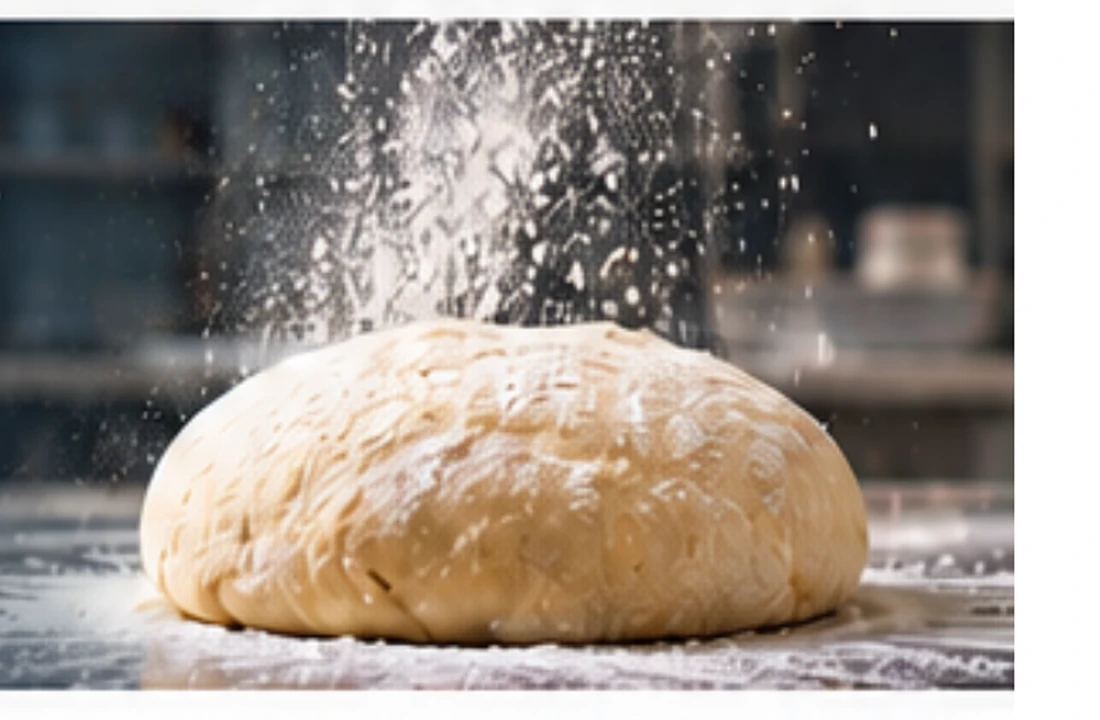
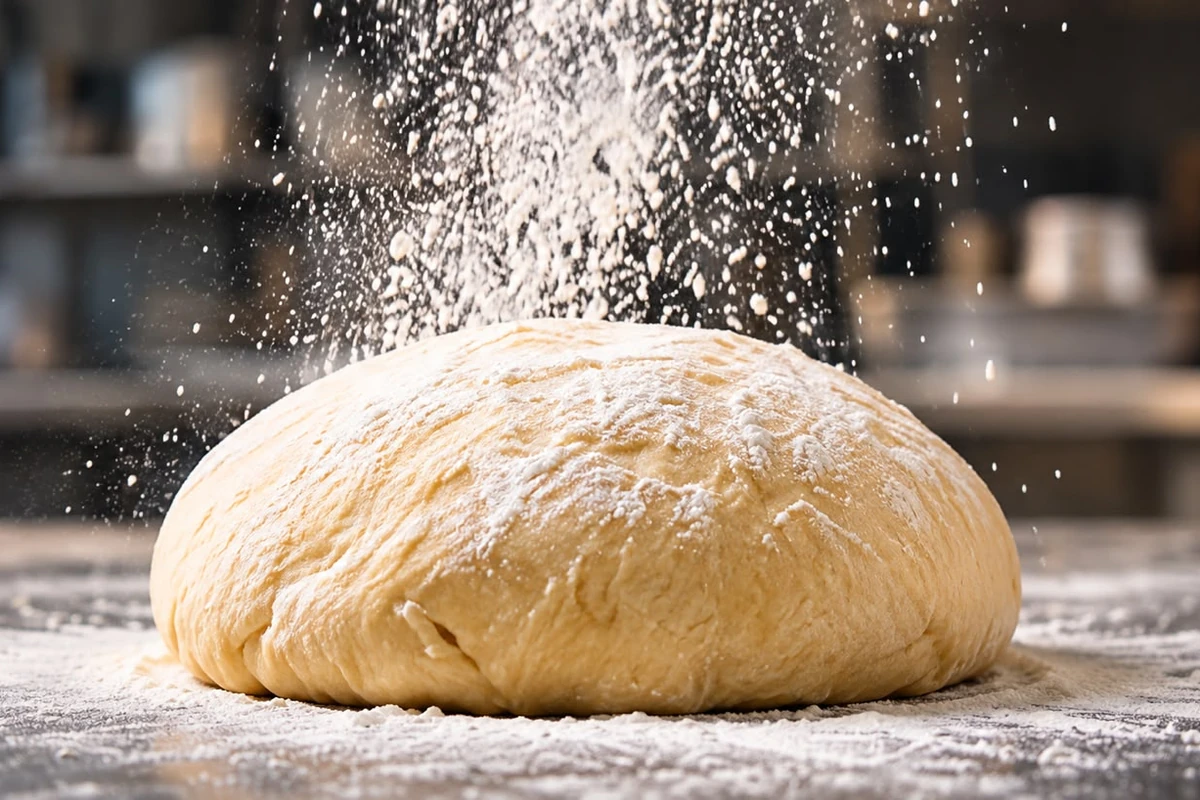
feat: replace food photography with provided high-res assets
Map the new cake, dough, and bread photos into hero, industries,
evolve, and CTA; use the cake scene as the hero background.

diff --git a/src/components/sections/HeroSection.tsx b/src/components/sections/HeroSection.tsx
@@ -1,7 +1,6 @@
 import { siteContent } from '@/data/siteContent'
 import { assetUrl } from '@/lib/assetUrl'
 import { Container } from '@/components/ui/Container'
-import { PublicImage } from '@/components/ui/PublicImage'
 import { QuoteForm } from '@/components/forms/QuoteForm'
 import { IconCalendar, IconFlag, IconGear } from '@/components/ui/icons'
 
@@ -17,27 +16,30 @@ export function HeroSection() {
   return (
     <section id="inicio" className="relative overflow-hidden">
       <div
-        className="absolute inset-0 bg-cover bg-center"
+        className="absolute inset-0 bg-cover bg-[center_right] sm:bg-center"
         style={{ backgroundImage: `url(${assetUrl(hero.background)})` }}
-        aria-hidden
+        role="img"
+        aria-label={hero.productImageAlt}
       />
       <div className="hero-overlay absolute inset-0" aria-hidden />
 
-      <Container className="relative grid gap-8 py-10 lg:grid-cols-[1fr_minmax(300px,400px)] lg:items-stretch lg:gap-8 lg:py-12">
-        <div className="flex flex-col text-white">
-          <p className="text-label-caps text-white/90">{hero.eyebrow}</p>
-          <h1 className="mt-3 max-w-xl text-[2rem] font-extrabold leading-[1.08] tracking-tight sm:text-4xl lg:text-[2.75rem]">
-            <span className="relative inline-block">
-              Lleva tu
-              <span className="absolute -bottom-1 left-0 h-[4px] w-16 rounded-sm bg-primary" />
-            </span>{' '}
-            producción al siguiente nivel.
-          </h1>
-          <p className="mt-4 max-w-md text-sm leading-relaxed text-white/90 sm:text-base">
-            {hero.description}
-          </p>
+      <Container className="relative grid gap-8 py-12 lg:grid-cols-[1fr_minmax(300px,400px)] lg:items-start lg:gap-10 lg:py-16">
+        <div className="flex flex-col text-white lg:min-h-[28rem] lg:justify-between">
+          <div>
+            <p className="text-label-caps text-white/90">{hero.eyebrow}</p>
+            <h1 className="mt-3 max-w-xl text-[2rem] font-extrabold leading-[1.08] tracking-tight sm:text-4xl lg:text-[2.75rem]">
+              <span className="relative inline-block">
+                Lleva tu
+                <span className="absolute -bottom-1 left-0 h-[4px] w-16 rounded-sm bg-primary" />
+              </span>{' '}
+              producción al siguiente nivel.
+            </h1>
+            <p className="mt-4 max-w-md text-sm leading-relaxed text-white/90 sm:text-base">
+              {hero.description}
+            </p>
+          </div>
 
-          <ul className="mt-6 grid max-w-xl gap-0 sm:grid-cols-3 sm:divide-x sm:divide-white/25">
+          <ul className="mt-8 grid max-w-xl gap-0 sm:grid-cols-3 sm:divide-x sm:divide-white/25 lg:mt-10">
             {hero.trust.map((item) => {
               const Icon = trustIcons[item.icon]
               return (
@@ -55,18 +57,6 @@ export function HeroSection() {
               )
             })}
           </ul>
-
-          <div className="mt-auto pt-5 max-w-[340px] sm:max-w-[400px] lg:max-w-[440px]">
-            <PublicImage
-              src={hero.productImage}
-              alt={hero.productImageAlt}
-              className="w-full object-contain drop-shadow-[0_24px_40px_rgba(0,0,0,0.5)]"
-              width={900}
-              height={1080}
-              loading="eager"
-              fetchPriority="high"
-            />
-          </div>
         </div>
 
         <QuoteForm className="self-start lg:sticky lg:top-24" />

diff --git a/src/index.css b/src/index.css
@@ -59,12 +59,13 @@
   .hero-overlay {
     background:
       linear-gradient(
-        105deg,
-        rgba(5, 22, 46, 0.88) 0%,
-        rgba(5, 22, 46, 0.72) 42%,
-        rgba(5, 22, 46, 0.45) 100%
+        100deg,
+        rgba(5, 22, 46, 0.9) 0%,
+        rgba(5, 22, 46, 0.78) 38%,
+        rgba(5, 22, 46, 0.42) 68%,
+        rgba(5, 22, 46, 0.22) 100%
       ),
-      linear-gradient(180deg, rgba(5, 22, 46, 0.35), rgba(5, 22, 46, 0.55));
+      linear-gradient(180deg, rgba(5, 22, 46, 0.28), rgba(5, 22, 46, 0.5));
   }
 
   .btn-primary {

diff --git a/index.html b/index.html
@@ -26,7 +26,7 @@
     <link
       rel="preload"
       as="image"
-      href="%BASE_URL%images/hero-cake.webp"
+      href="%BASE_URL%images/hero-bg.webp"
       type="image/webp"
       fetchpriority="high"
     />
